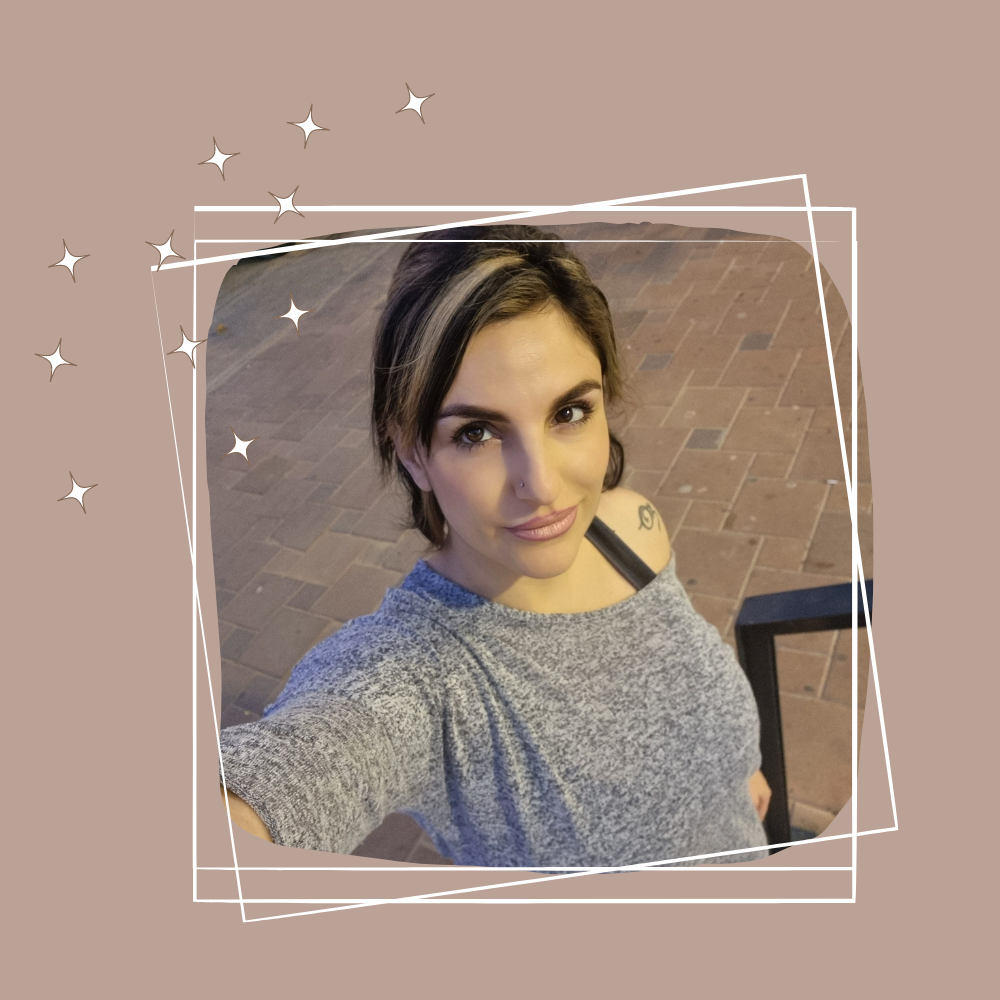
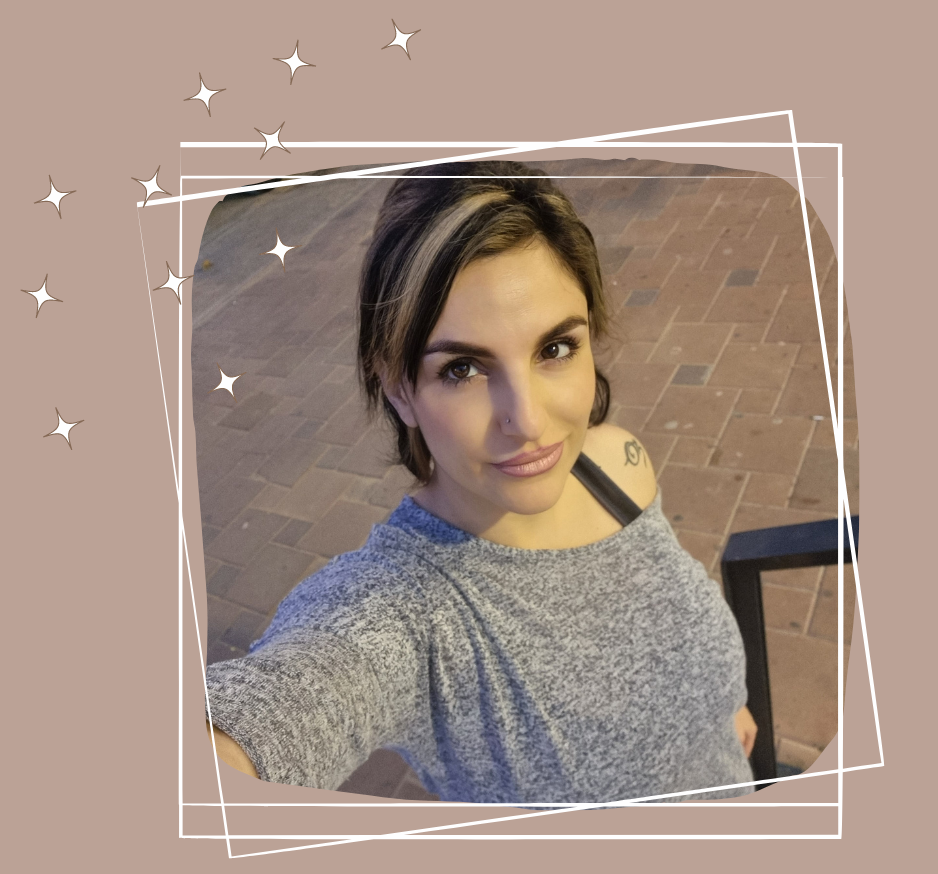
edited home section. fixed appbar fixed mobile issues

diff --git a/src/components/Home/sections/Home.tsx b/src/components/Home/sections/Home.tsx
@@ -1,22 +1,26 @@
 import React from "react";
-import { Box, styled } from "@mui/material";
+import { Box, styled, Button, Typography } from "@mui/material";
 // import { theme } from "../../../theme";
 import Title from "../../../styles/Title";
 import bgHome from "../../../assets/homebgstars.png";
 import homephoto from "../../../assets/homephoto.png";
+// import homephoto2 from "../../../assets/homephoto2.jpg";
 import "../../Home/style.css";
+import DividerStars from "../../Divider/DividerStars";
 
 const CustomBox = styled(Box)(({ theme }) => ({
   display: "flex",
   alignItems: "center",
   justifyContent: "center",
-  gap: theme.spacing(5),
+  // gap: theme.spacing(5),
   direction: "rtl",
   textAlign: "center",
-  width: "100%",
-  padding: theme.spacing(0, 4, 0, 4),
-  [theme.breakpoints.down("sm")]: {
-    flexDirection: "column",
+  width: "90%",
+
+  // padding: theme.spacing(0, 4, 0, 4),
+  padding: "0",
+  [theme.breakpoints.down("md")]: {
+    flexDirection: "column-reverse",
     alignItems: "center",
     textAlign: "center",
   },
@@ -24,15 +28,17 @@ const CustomBox = styled(Box)(({ theme }) => ({
 const StarsBgBox = styled(Box)(({ theme }) => ({
   height: "500px",
   width: "70%",
-
   position: "absolute",
   zIndex: "0",
   bottom: "0",
   left: "0",
-  backgroundImage: `URL(${bgHome}) `,
-  backgroundSize: "cover",
-  backgroundRepeat: "no-repeat",
-  backgroundPosition: "0% 100%",
+  backgroundColor: "primary.light",
+  [theme.breakpoints.up("md")]: {
+    backgroundImage: `URL(${bgHome}) `,
+    backgroundSize: "cover",
+    backgroundRepeat: "no-repeat",
+    backgroundPosition: "0% 100%",
+  },
 }));
 
 const Home = () => {
@@ -40,17 +46,69 @@ const Home = () => {
     <Box
       minHeight="100vh"
       width="100%"
-      sx={{ position: "relative", backgroundColor: "primary.light", paddingTop: "2rem" }}>
+      sx={{
+        position: "relative",
+        backgroundColor: "primary.light",
+        // paddingTop: "2rem",
+        display: "flex",
+        justifyContent: "center",
+        alignItems: "fle-start",
+      }}>
       <CustomBox>
-        <Box sx={{ width: { xs: "400px", sm: "650px" }, zIndex: "1", overflowY: "hidden" }} className="imgContainer">
+        <Box
+          sx={{
+            width: { xs: "350px", sm: "650px" },
+            maxWidth: "100%",
+            zIndex: "1",
+            overflowY: "hidden",
+          }}
+          className="imgContainer">
           <img src={homephoto} alt="kohi" />
         </Box>
-        <Box sx={{ marginTop: "2rem", zIndex: "1", width: "50%" }}>
-          <Title fontColor="white" fontSize="2rem">
+        <Box
+          sx={{
+            zIndex: "1",
+            width: "55%",
+            display: "flex",
+            justifyContent: "center",
+            alignItems: "center",
+            flexDirection: "column",
+            paddingTop: "4rem",
+          }}>
+          <Title fontColor="white" fontSize="2.5rem" fontFamily={`'Secular One', sans-serif`}>
             כשהנדסה פוגשת אומנות
           </Title>
-          <p>להוסיף למעלה "טיפולים" דרופדאון עם הובר אבל לא של מטריאל. לראות באתר w3school</p>
-          <p>להוסיף</p>
+          <DividerStars />
+          <Title fontColor="white" fontSize="2.5rem">
+            כוכבית פרדו - אמנית איפור קבוע
+          </Title>
+          <Title fontColor="white" fontSize="1.5rem">
+            איפור קבוע | נמשים | שפתיים | גבות
+          </Title>
+          <br></br>
+          <DividerStars />
+          <Button variant="contained" sx={{ backgroundColor: "#f7347e", marginTop: "1.2rem", width: "300px" }}>
+            <Typography
+              component="a"
+              href="tel:+9720506225790"
+              color="praimary.main"
+              sx={{
+                fontSize: "1.3rem",
+                display: "inline",
+                marginLeft: "0.7rem",
+                textDecoration: "none",
+                color: "white",
+              }}>
+              התקשר\י עכשיו
+            </Typography>
+            <Typography
+              component="a"
+              href="tel:+9720506225790"
+              color="praimary.main"
+              sx={{ fontSize: "1.4rem", display: "inline", textDecoration: "none", color: "white" }}>
+              050-622-5490
+            </Typography>
+          </Button>
         </Box>
       </CustomBox>
 

diff --git a/src/components/Divider/DividerStars.tsx b/src/components/Divider/DividerStars.tsx
@@ -1,0 +1,19 @@
+import { Box } from "@mui/material";
+
+import StarIcon from "@mui/icons-material/Star";
+
+const DividerStars = () => {
+  return (
+    <Box sx={{ height: "40px", color: "white", display: "flex", alignItems: "center", justifyContent: "center" }}>
+      <StarIcon color="inherit" sx={{ fontSize: "1rem" }} />
+      <StarIcon color="inherit" fontSize="small" />
+      <StarIcon color="inherit" fontSize="medium" />
+      <StarIcon color="inherit" fontSize="large" />
+      <StarIcon color="inherit" fontSize="medium" />
+      <StarIcon color="inherit" fontSize="small" />
+      <StarIcon color="inherit" sx={{ fontSize: "1rem" }} />
+    </Box>
+  );
+};
+
+export default DividerStars;

diff --git a/src/styles/Title.tsx b/src/styles/Title.tsx
@@ -15,6 +15,7 @@ type TitleProp = {
   children: string;
   fontSize: string;
   fontColor: string;
+  fontFamily?: string;
 };
 const Title = (props: TitleProp) => {
   return (
@@ -24,8 +25,8 @@ const Title = (props: TitleProp) => {
           fontSize: props.fontSize,
           color: props.fontColor,
 
-          fontFamily: ` 'Secular One', sans-serif`,
-          margin: theme.spacing(4, 0, 0, 0),
+          fontFamily: props.fontFamily,
+          // margin: theme.spacing(4, 0, 0, 0),
           [theme.breakpoints.down("sm")]: {
             fontSize: "1.5rem",
           },

diff --git a/public/index.html b/public/index.html
@@ -2,8 +2,13 @@
 <html lang="en">
   <head>
     <meta charset="utf-8" />
+
     <link rel="icon" href="%PUBLIC_URL%/favicon.ico" />
-    <meta name="viewport" content="width=device-width, initial-scale=1" />
+    <meta
+      name="viewport"
+      content="width=device-width, initial-scale=1, user-scalable=0, maximum-scale=1, minimum-scale=1"
+    />
+
     <meta name="theme-color" content="#000000" />
     <meta name="description" content="Web site created using create-react-app" />
     <link rel="apple-touch-icon" href="%PUBLIC_URL%/logo192.png" />

diff --git a/src/components/Navbar/Navbar.tsx b/src/components/Navbar/Navbar.tsx
@@ -27,7 +27,7 @@ import Slide from "@mui/material/Slide";
 import { TransitionProps } from "@mui/material/transitions";
 import { StyledToolbar } from "./NavbarStyle";
 import { Link } from "react-router-dom";
-import { NavHashLink } from "react-router-hash-link";
+// import { NavHashLink } from "react-router-hash-link";
 import ExpandLess from "@mui/icons-material/ExpandLess";
 import ExpandMore from "@mui/icons-material/ExpandMore";
 

diff --git a/src/pages/HomeMain.tsx b/src/pages/HomeMain.tsx
@@ -27,7 +27,7 @@ const sections = [
 
 const HomeMain = () => {
   return (
-    <Box minHeight="100vh" bgcolor="white">
+    <Box minHeight="100vh" bgcolor="white" width="100%" sx={{ display: "flex", flexDirection: "column" }}>
       {/* <Toolbar /> */}
       {sections.map((section) => {
         return (

diff --git a/src/App.css b/src/App.css
@@ -1,5 +1,9 @@
-.App {
+/* .App {
   text-align: center;
+} */
+
+.appContainer {
+  width: 100%;
 }
 
 /* .buttonLinkNav {
